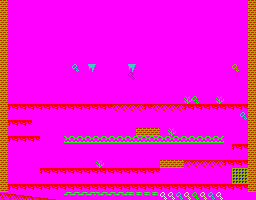
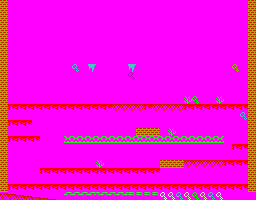
Added bg1 for now to hold the exit (and anything else needed?)

Changed region(s): [[0.9062, 0.84, 0.9688, 0.93]]

diff --git a/arm9/source/mmll.h b/arm9/source/mmll.h
@@ -22,6 +22,7 @@
 #include "../build/BottomScreen.h"
 #include "../build/Level01.h"
 #include "../build/Level02.h"
+#include "../build/LevelFront02.h"
 #include "../build/Background01.h"
 #include "../build/Background02.h"
 #include "../build/Background03.h"
@@ -67,9 +68,9 @@
 #define BG2_PRIORITY				2
 #define BG3_PRIORITY				3
 
-@ Sprite priority is 1 so it appears below BG0
+@ Sprite priority is 1 so it appears below BG1
 
-#define SPRITE_PRIORITY				1
+#define SPRITE_PRIORITY				2
 
 @ Game modes
 
